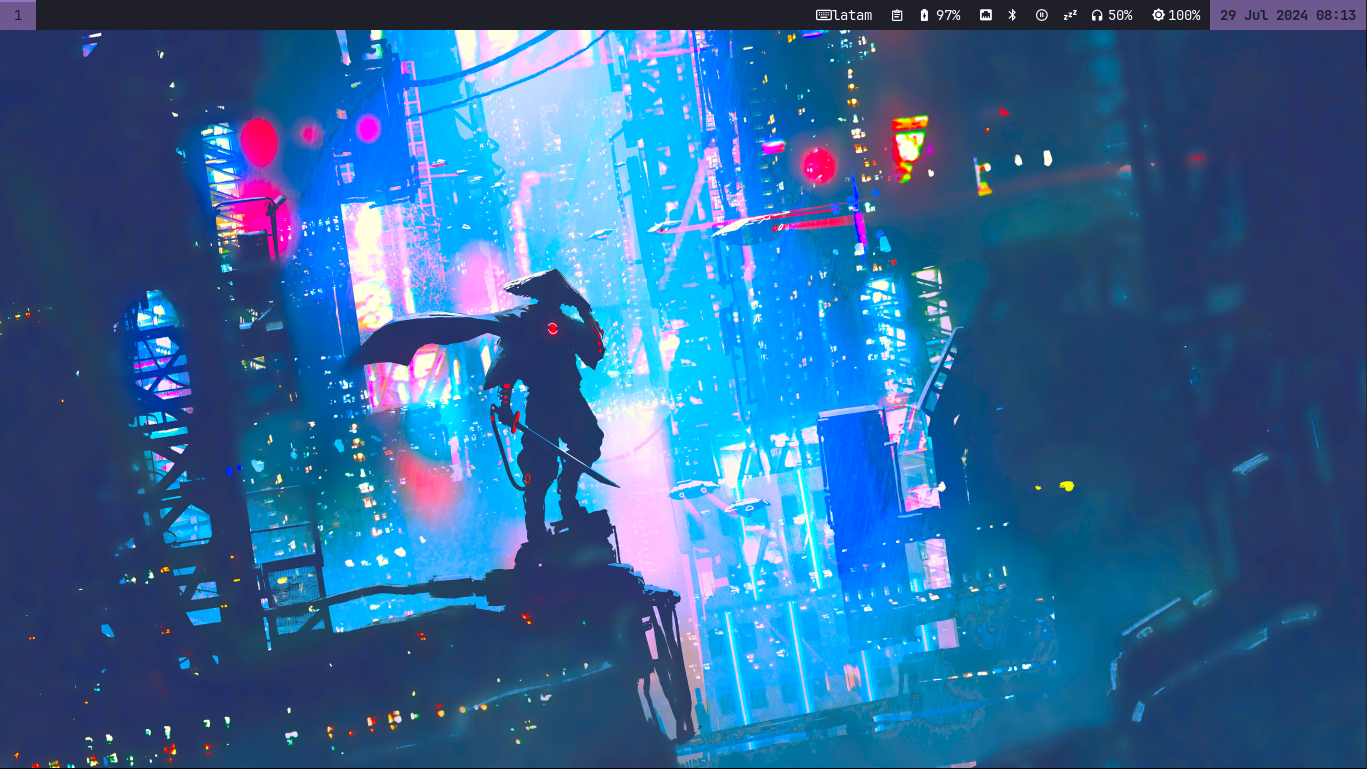
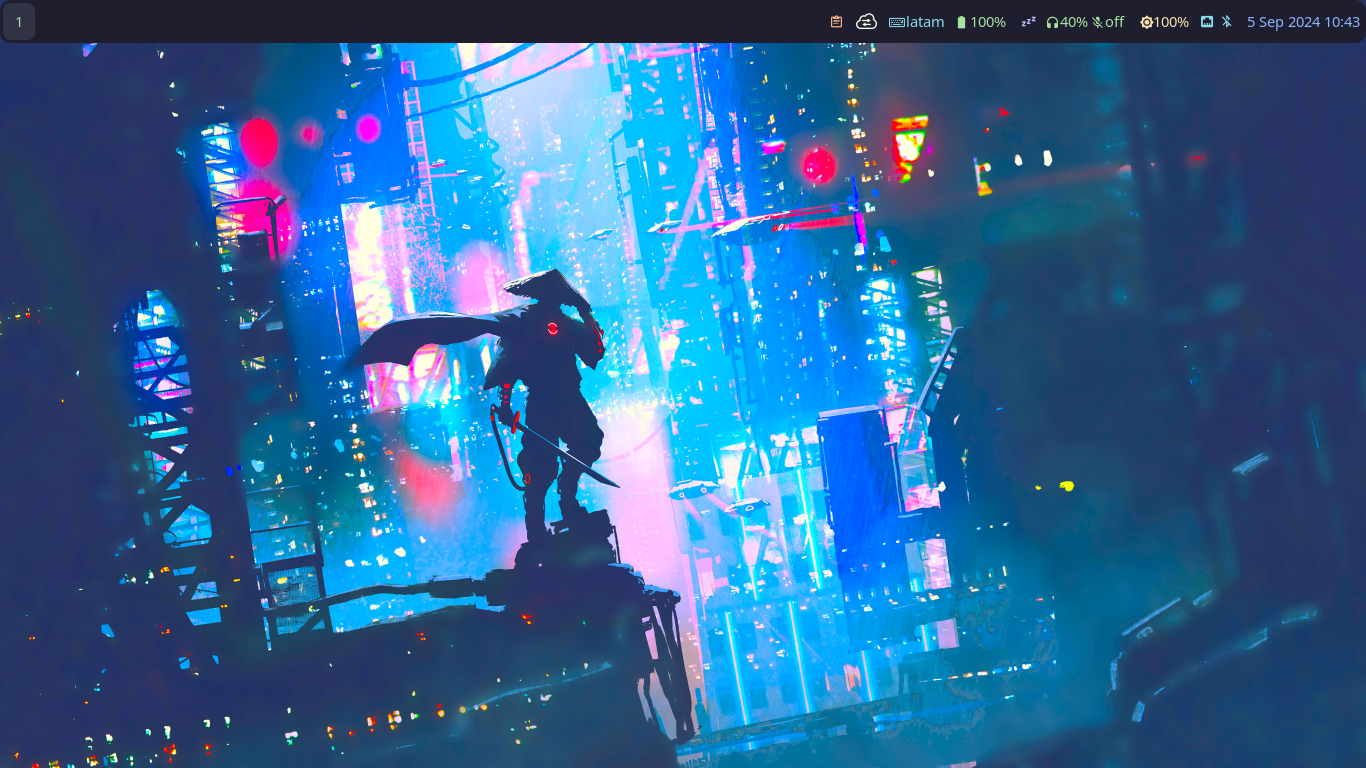
update

diff --git a/waybar/.config/waybar/style.css b/waybar/.config/waybar/style.css
@@ -1,0 +1,197 @@
+@import "mocha.css";
+
+* {
+  font-family: JetBrainMono Nerd Font;
+  font-size: 1rem;
+  min-height: 0;
+}
+
+#waybar {
+  background-color: @base;
+  color: @text;
+  margin: 0.10rem;
+  border-radius: 0.75rem;
+}
+
+#workspaces {
+  margin: 0.25rem;
+}
+
+#workspaces button {
+  color: @lavender;
+  border-radius: 0.5rem;
+  padding: 0.5rem;
+}
+
+#workspaces button.active, #workspaces button.focused {
+  color: @green;
+  border-radius: 0.5rem;
+  background-color: @surface0;
+}
+
+#workspaces button:hover {
+  color: @sapphire;
+  border-radius: 0.5rem;
+}
+
+#custom-scratchpad,
+#custom-wf-recorder, 
+#mode,
+#custom-clipboard,
+#tray,
+#language,
+#battery,
+#custom-playerctl,
+#custom-idle_inhibitor,
+#pulseaudio,
+#backlight,
+#custom-pacman,
+#network,
+#bluetooth,
+#clock,
+
+#custom-scratchpad {
+  color: @green;
+  background-color: @base;
+  margin: 0.25rem;
+  padding: 0.5rem;
+}
+
+#custom-wf-recorder, #mode {
+  border-radius: 0.5rem;
+  background-color: @surface0;
+  margin: 0.25rem;
+  padding: 0.5rem;
+}
+
+#custom-clipboard {
+  color: @peach;
+  margin: 0.25rem;
+  padding: 0.5rem;
+}
+
+#custom-clipboard:hover {
+  border-radius: 0.5rem;
+  background-color: @surface0;
+  padding: 0.5rem;
+}
+
+#tray {
+  margin: 0.25rem;
+  padding: 0.25rem;
+}
+
+#language {
+  color: @sky;
+  margin: 0.25rem;
+  padding: 0.25rem;
+}
+
+#language:hover {
+  border-radius: 0.5rem;
+  background-color: @surface0;
+  padding: 0.25rem;
+}
+
+#battery {
+  color: @green;
+  margin: 0.25rem;
+  padding: 0.25rem;
+}
+
+#battery:hover {
+  border-radius: 0.5rem;
+  background-color: @surface0;
+  padding: 0.25rem;
+}
+
+#battery.charging {
+  color: @green;
+}
+
+#battery.warning:not(.charging) {
+  color: @yellow;
+}
+
+#battery.critical:not(.charging) {
+  color: @red;
+}
+
+#custom-idle_inhibitor {
+  color: @lavender;
+  margin: 0.25rem;
+  padding: 0.5rem;
+}
+
+#custom-idle_inhibitor:hover {
+  border-radius: 0.5rem;
+  background-color: @surface0;
+  padding: 0.5rem;
+}
+
+#pulseaudio {
+  color: @green;
+  margin: 0.25rem;
+  padding: 0.25rem;
+}
+
+#pulseaudio.muted {
+  color: @red;
+}
+
+#pulseaudio:hover {
+  border-radius: 0.5rem;
+  background-color: @surface0;
+  padding: 0.25rem;
+}
+
+#backlight {
+  color: @yellow;
+  margin: 0.25rem;
+  padding: 0.25rem;
+}
+
+#backlight:hover {
+  border-radius: 0.5rem;
+  background-color: @surface0;
+  padding: 0.25rem;
+}
+
+#custom-pacman {
+  color: @red;
+  background-color: @surface0;
+  margin: 0.25rem;
+  padding: 0.25rem;
+}
+
+#network {
+  color: @sky;
+  margin: 0.25rem;
+  padding: 0.25rem;
+}
+
+#network:hover {
+  color: @blue;
+}
+
+#bluetooth {
+  color: @sky;
+  margin: 0.25rem;
+  padding: 0.25rem;
+}
+
+#bluetooth:hover {
+  color: @blue;
+}
+
+#clock {
+  color: @blue;
+  margin: 0.25rem;
+  padding: 0.25rem;
+}
+
+#clock:hover {
+  border-radius: 0.5rem;
+  background-color: @surface0;
+  padding: 0.25rem;
+}

diff --git a/waybar/.config/waybar/mocha.css b/waybar/.config/waybar/mocha.css
@@ -1,0 +1,26 @@
+@define-color rosewater #f5e0dc;
+@define-color flamingo #f2cdcd;
+@define-color pink #f5c2e7;
+@define-color mauve #cba6f7;
+@define-color red #f38ba8;
+@define-color maroon #eba0ac;
+@define-color peach #fab387;
+@define-color yellow #f9e2af;
+@define-color green #a6e3a1;
+@define-color teal #94e2d5;
+@define-color sky #89dceb;
+@define-color sapphire #74c7ec;
+@define-color blue #89b4fa;
+@define-color lavender #b4befe;
+@define-color text #cdd6f4;
+@define-color subtext1 #bac2de;
+@define-color subtext0 #a6adc8;
+@define-color overlay2 #9399b2;
+@define-color overlay1 #7f849c;
+@define-color overlay0 #6c7086;
+@define-color surface2 #585b70;
+@define-color surface1 #45475a;
+@define-color surface0 #313244;
+@define-color base #1e1e2e;
+@define-color mantle #181825;
+@define-color crust #11111b;
